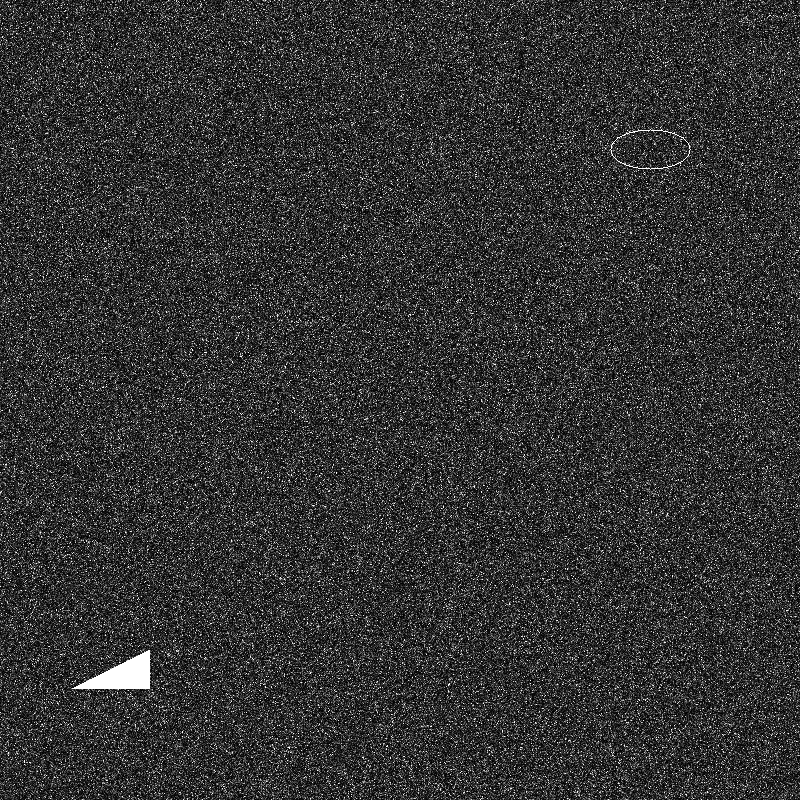
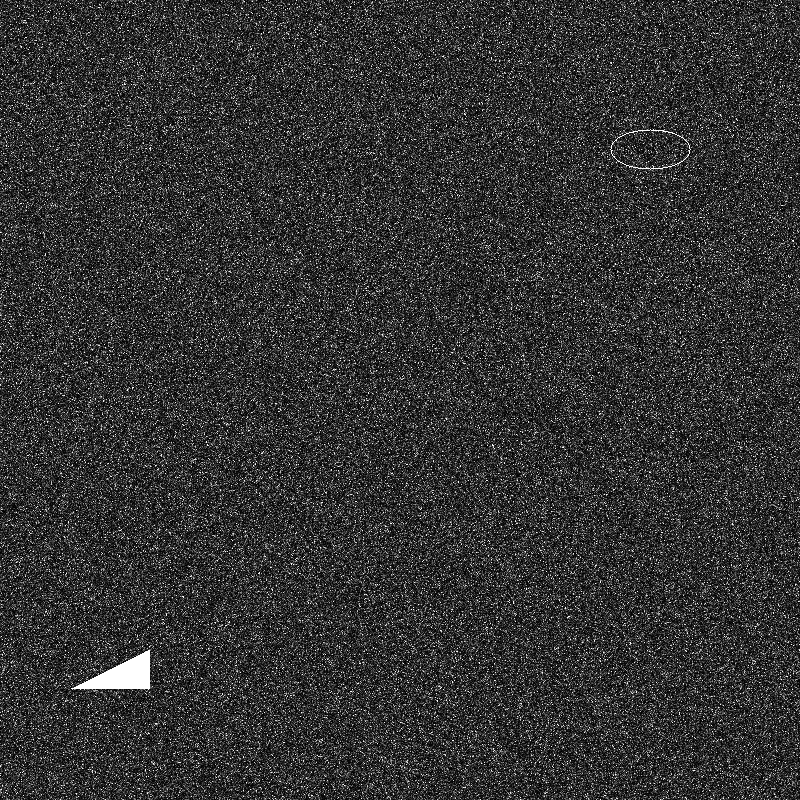
new param in imnoise2

diff --git a/Lab_2/Lab_2.m b/Lab_2/Lab_2.m
@@ -96,7 +96,7 @@ imshow(dark_cropped_bg); title('Уменьшенная яркость'); pause;
 grey_cropped_bg = rgb2gray(dark_cropped_bg);
 grey_cropped_bg(tr) = 255;
 grey_cropped_bg(ellipse_perim) = 255;
-noise = imnoise2('exponential', 800, 800);
+noise = imnoise2('exponential', 800, 800, 5);
 grey_cropped_bg = im2double(grey_cropped_bg);
 noisyImage = grey_cropped_bg.*noise;
 imshow(noisyImage); pause;
@@ -111,7 +111,7 @@ imshow(negative); pause;
 grey_cropped_bg2 = rgb2gray(dark_cropped_bg);
 grey_cropped_bg2((round(size(obj1, 1)/2)-a):(round(size(obj1, 1)/2)+a), ...
     (round(size(obj1, 1)/2)-a):(round(size(obj1, 1)/2)+a)) = 255;
-noise = imnoise2('exponential', 800, 800);
+noise = imnoise2('exponential', 800, 800, 5);
 grey_cropped_bg2 = im2double(grey_cropped_bg2);
 noisyImage2 = grey_cropped_bg2.*noise;
 imshow(noisyImage2); pause;
